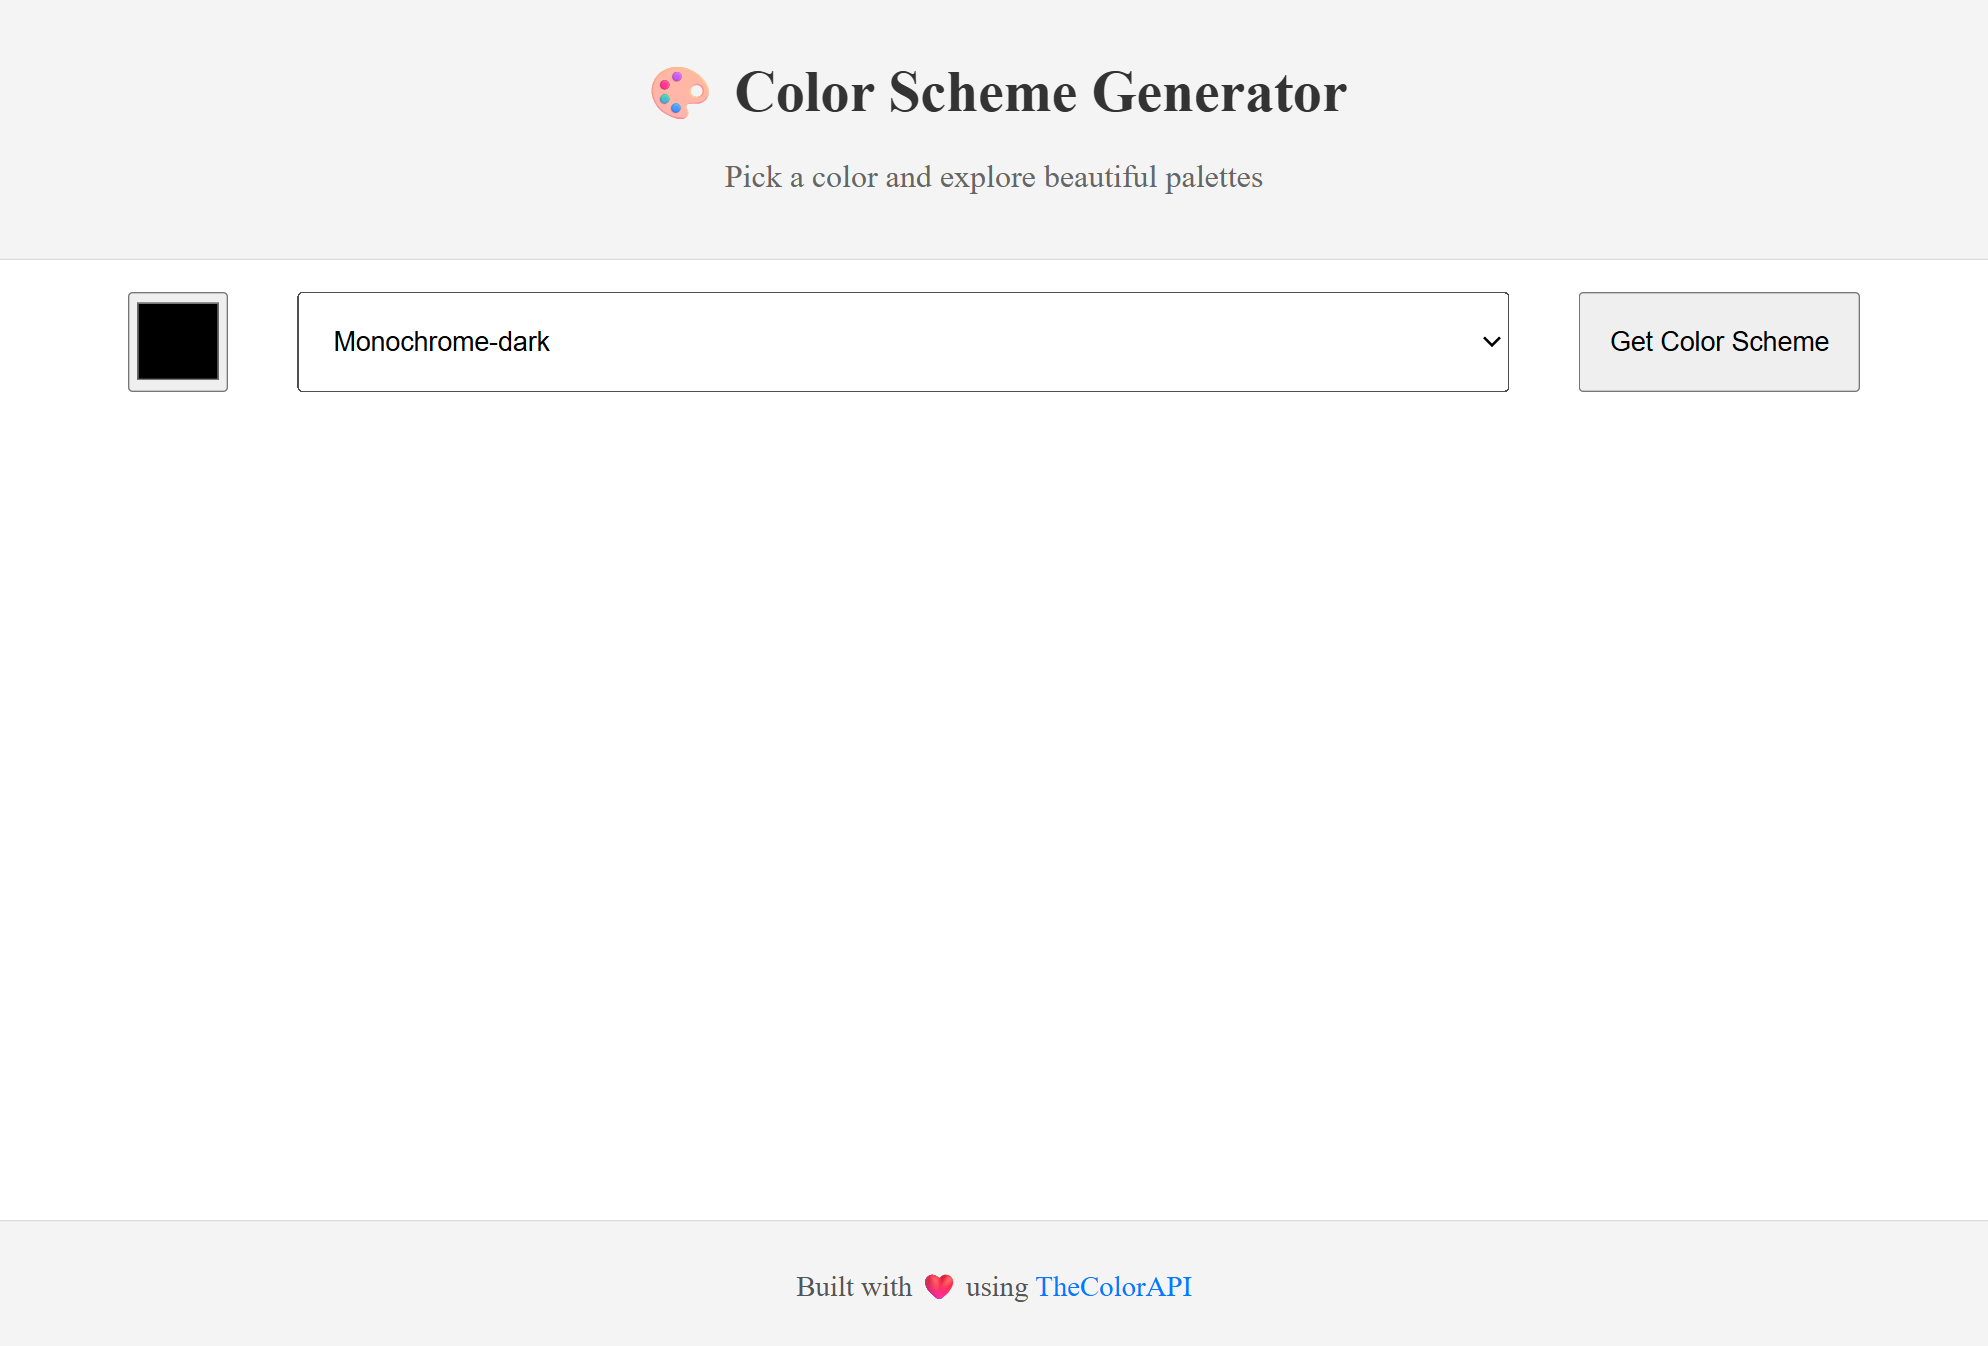
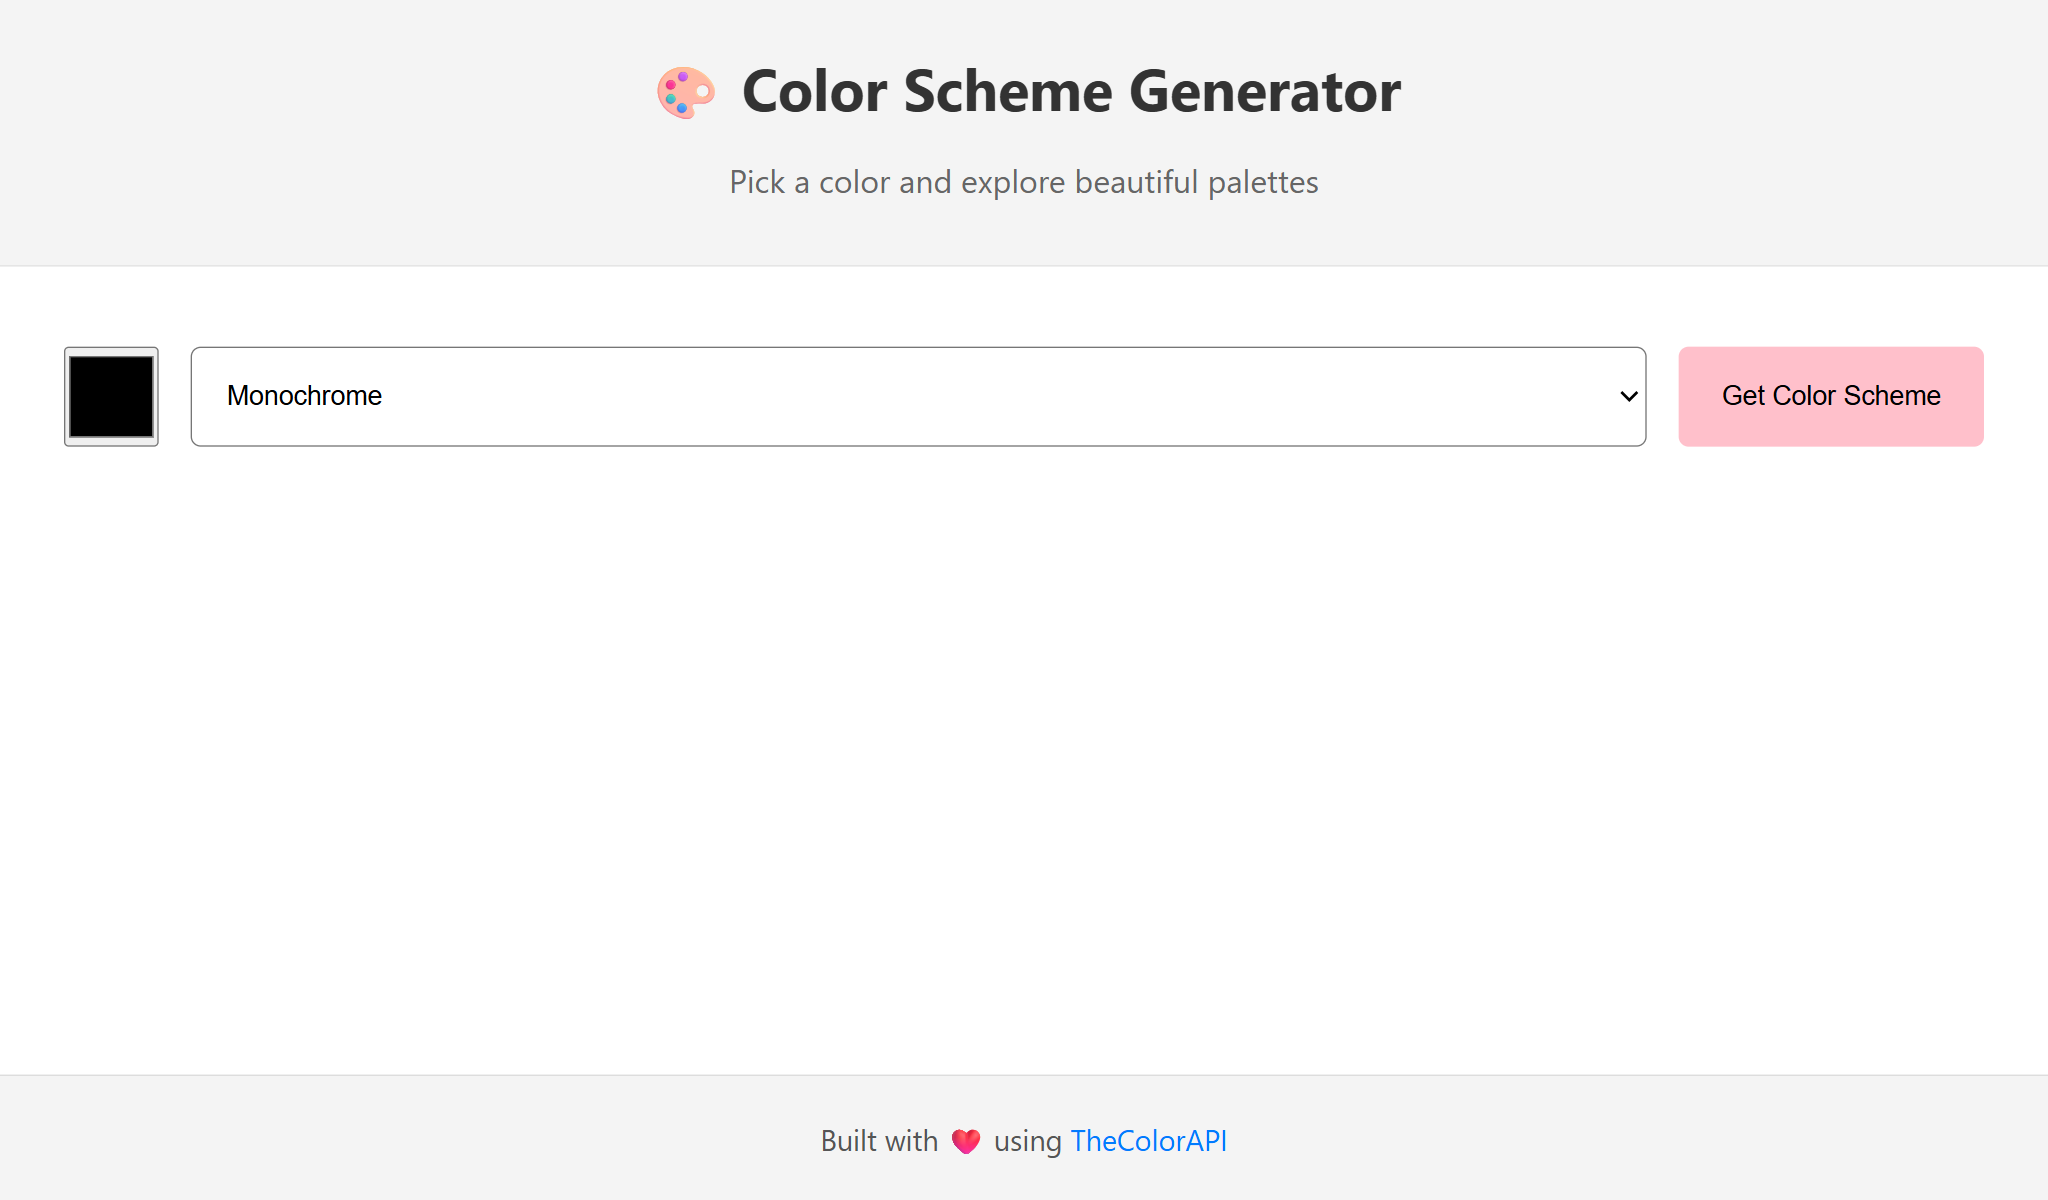
Add App screenshots

diff --git a/index.css b/index.css
@@ -1,15 +1,20 @@
 * {
-    box-sizing: border-box;
-    margin: 0;
+  box-sizing: border-box;
+  margin: 0;
+  padding: 0;
 }
 
-html, body{
-    height: 100%;
-    display: flex;
-    flex-direction: column;
-    margin: 0;
+html, body {
+  height: 100%;
+  width: 100%;
+  display: flex;
+  flex-direction: column;
+  font-family: system-ui, sans-serif;
 }
+
+/* HEADER */
 header {
+  width: 100%;
   text-align: center;
   background-color: #f4f4f4;
   padding: 1.5em 1em;
@@ -27,62 +32,91 @@ header p {
   color: #666;
 }
 
-main {
-    flex: 1;
-}
-.container {
-    display: flex;
-    justify-content: space-between;
-    margin: 1.5em;
-}
-#mode-select {
-    width: 60%;
-}
-#mode-select, button {
-    padding: 1em;
-}
-input {
-    height: 50px;
-    width: 50px;
-}
-
-#color-scheme {
-    margin: 1em;
-    display: flex;
-}
-
-.color-box {
-    width: 120px;
-    height: 65vh;
+#btn{
+    width: 160px;
+    padding: 14px 10px;
+    margin-left: auto;
+    cursor: pointer;
+    border: none;
+    background-color: pink;
     border-radius: 5px;
 }
 
-p {
-    text-align: center;
-    padding: 0.5em;
-    position: relative;
+
+/* MAIN CONTENT */
+main {
+  flex: 1;
+  width: 100%;
+  display: flex;
+  flex-direction: column;
+  align-items: center;
+  padding: 1em;
+  background-color: #fff;
+}
+
+.container {
+  display: flex;
+  flex-direction: column;
+  gap: 1em;
+  width: 100%;
+  max-width: 600px;
+  margin: 1.5em auto;
+  padding: 0 1em;
+}
+
+#mode-select {
+  width: 100%;
+  padding: 1em;
+  border-radius: 5px;
+}
+
+/* COLOR SCHEME BOXES */
+#color-scheme {
+  display: flex;
+  flex-wrap: wrap;
+  justify-content: center;
+  margin: 1em 0;
+}
+
+#color-picker {
+    width: 40px;
+    height: 40px;
     cursor: pointer;
 }
 
-/* Copy message styling */
-.copy-msg {
-    display: block;
-    text-align: center;
-    color: #4caf50;
-    font-size: 0.8rem;
-    opacity: 1;
-    transition: opacity 0.5s ease;
-    margin-top: -0.3em;
+.color-box {
+  width: 100%;
+  max-width: 120px;
+  height: 65vh;
+  border-radius: 5px;
 }
 
+p {
+  text-align: center;
+  padding: 0.5em;
+  position: relative;
+  cursor: pointer;
+}
+
+/* COPY MESSAGE */
+.copy-msg {
+  display: block;
+  text-align: center;
+  color: #4caf50;
+  font-size: 0.8rem;
+  transition: opacity 0.5s ease;
+  margin-top: -0.3em;
+}
+
+/* FOOTER */
 footer {
+  width: 100%;
   text-align: center;
   padding: 1em;
   background-color: #f4f4f4;
   border-top: 1px solid #ddd;
   font-size: 0.9rem;
   color: #555;
-  margin-top: 2em;
 }
 
 footer a {
@@ -94,22 +128,26 @@ footer a:hover {
   text-decoration: underline;
 }
 
+/* LARGER SCREENS */
 @media (min-width: 789px) {
-    .container, #color-scheme {
-        margin: 1em 4em;
-    }
-    .color-box {
-        width: 230px;
-        height: 70vh;
-        border-radius: 5px;
-        margin: 0 auto;
-    }
-    p {
-        text-align: center;
-    }
-    #mode-select {
-        width: 70%;
-    }
-}
+  .container {
+    flex-direction: row;
+    justify-content: space-between;
+    max-width: 1000px;
+  }
 
+  .color-box {
+    width: 250px;
+    height: 70vh;
+  }
+
+  #mode-select {
+    width: 80%;
+  }
+
+  #color-picker{
+    width: 50px;
+    height: 50px;
+  }
+}
 

diff --git a/README.md b/README.md
@@ -41,6 +41,8 @@ Screenshots
 
 ![App Screenshot 1](images/screenshot1.png)
 ![App Screenshot 2](images/screenshot2.png)
+![App Screenshot 3](images/screenshot3.png)
+![App Screenshot 4](images/screenshot6.png)
 
 * * * * *
 
